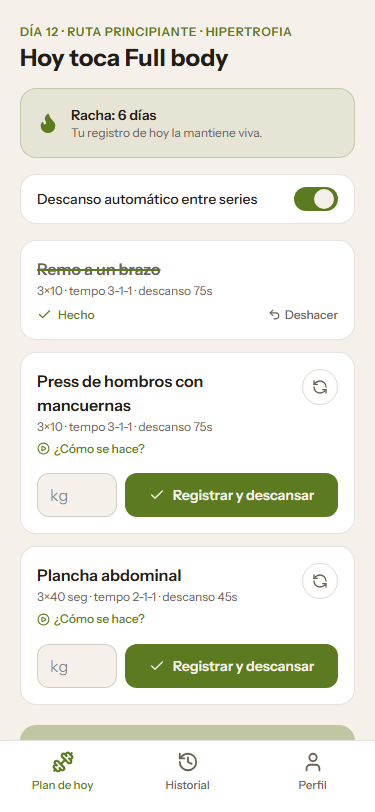
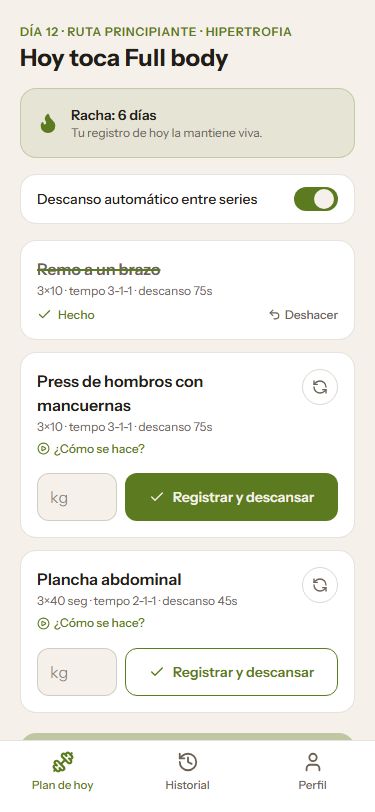
fix: jerarquía de CTAs y tap-target en pantalla principal + estado
- Botones de registrar/input de peso a 48px de alto (antes 44px,
  por debajo del mínimo táctil de la ancla del CTA héroe).
- Solo el próximo ejercicio pendiente lleva el botón "Registrar"
  con relleno sólido; el resto usa estilo secundario (borde de
  acento) para no competir varios CTAs sólidos a la vez.

Actualiza ESTADO.md con el resumen completo de Sesión 7: paywall
pasó el gate del revisor-visual (36/40, 16/20, 17/20 copy); landing
y pantalla-principal mejoraron sustancialmente en 3 rondas de
corrección real; onboarding necesita rediseño de layout (no un
ajuste de alineación) para las pantallas de 2-4 opciones.

diff --git a/app/app/page.tsx b/app/app/page.tsx
@@ -241,9 +241,12 @@ function PlanDelDia({
 
       {/* (2) LA ACCIÓN DE 1 TAP — la lista de ejercicios de hoy */}
       <div className="mt-4 flex flex-col gap-3 pb-28">
-        {idsHoy.map((ej, i) => {
-          const hecho = progreso.hechosHoy.includes(ej.id);
-          return (
+        {(() => {
+          const proximaId = idsHoy.find((e) => !progreso.hechosHoy.includes(e.id))?.id;
+          return idsHoy.map((ej, i) => {
+            const hecho = progreso.hechosHoy.includes(ej.id);
+            const esProxima = ej.id === proximaId;
+            return (
             <motion.div
               key={ej.id}
               initial={{ opacity: 0, y: 10 }}
@@ -295,13 +298,17 @@ function PlanDelDia({
                     placeholder="kg"
                     value={pesos[ej.id] ?? ''}
                     onChange={(e) => setPesos((p) => ({ ...p, [ej.id]: e.target.value }))}
-                    className="h-11 w-20 rounded-xl border border-[color-mix(in_oklab,var(--text-tertiary)_25%,transparent)] bg-[var(--bg)] px-3 text-base text-[var(--text-primary)] outline-none focus:border-[var(--accent)]"
+                    className="h-12 w-20 rounded-xl border border-[color-mix(in_oklab,var(--text-tertiary)_25%,transparent)] bg-[var(--bg)] px-3 text-base text-[var(--text-primary)] outline-none focus:border-[var(--accent)]"
                   />
                   <motion.button
                     type="button"
                     whileTap={{ scale: 0.97 }}
                     onClick={() => registrar(ej.id)}
-                    className="flex h-11 flex-1 items-center justify-center gap-2 rounded-xl bg-[var(--accent)] text-sm font-semibold text-[var(--bg)]"
+                    className={`flex h-12 flex-1 items-center justify-center gap-2 rounded-xl text-sm font-semibold ${
+                      esProxima
+                        ? 'bg-[var(--accent)] text-[var(--bg)]'
+                        : 'border border-[var(--accent)] text-[var(--accent)]'
+                    }`}
                   >
                     <Check size={16} /> {progreso.descansoAutomatico ? 'Registrar y descansar' : 'Registrar'}
                   </motion.button>
@@ -322,7 +329,8 @@ function PlanDelDia({
               )}
             </motion.div>
           );
-        })}
+        });
+        })()}
 
         <motion.button
           type="button"

diff --git a/ESTADO.md b/ESTADO.md
@@ -163,11 +163,11 @@ Sesión 6 (integraciones reales y seguridad) — en curso.
 - App interna (Sesión 5) sin backend todavía: el progreso (racha, día, historial de pesos) vive en localStorage del navegador, se pierde si el usuario cambia de dispositivo o borra datos. Sesión 6 lo mueve a las tablas `workout_logs`/`user_progress` de Supabase.
 - Las ilustraciones de ejercicios son solo texto (nombre + series/reps), sin dibujo biomecánico — el documento original de la idea pedía "ilustraciones anatómicas sencillas". Pendiente de diseño gráfico si se quiere esa capa visual; no es un placeholder deshonesto (no finge tener algo que no tiene), pero es una reducción de alcance visual a anotar.
 - Corregido durante la Sesión 5: un bug real de condición de carrera si el usuario tocaba "Registrar" en dos ejercicios muy rápido (el segundo tap sobrescribía el primero) — se arregló usando actualización funcional de estado (setState con función, no valor directo). Verificado con clics simultáneos simulados.
-- **veredicto:paywall** — YA EXISTE (docs/revisiones/paywall-veredicto.md, subagente `revisor-visual`, Sesión 7): NO LISTA (Usabilidad 30/40, Craft 12/20, Copy 18/20). Defectos concretos documentados; pendiente aplicar el pulido antes de re-lanzar el revisor y declarar lista.
-- **veredicto:landing** — YA EXISTE pero la primera pasada quedó invalidada por un bug del script de captura (screenshot casi en blanco, corregido — ver sección "Sesión 7" arriba); se relanzó el revisor con la captura corregida, resultado pendiente de esta misma sesión.
-- **veredicto:onboarding** — YA EXISTE (docs/revisiones/onboarding-veredicto.md, Sesión 7): NO LISTA (Usabilidad 31/40, Craft 11/20). Defectos concretos documentados; pendiente aplicar el pulido antes de re-lanzar el revisor.
-- **veredicto:pantalla-principal** — mismo caso que landing: primera pasada con datos de ejemplo poco representativos, recapturada, resultado pendiente.
-- Las 4 pantallas del dinero (landing, paywall, onboarding, pantalla-principal) están en pulido activo de Sesión 7: se corrigen los defectos reales que encontró el revisor y se vuelve a lanzar hasta que las 4 pasen el gate (≥36/40 usabilidad, ≥16/20 craft, ≥16/20 copy en las que venden). No se declaran "listas" hasta que el veredicto lo diga explícitamente — autoevaluarse no cuenta como evidencia (Regla de Oro 7).
+- **veredicto:paywall** — ✅ **LISTA** (docs/revisiones/paywall-veredicto.md, 31/08/2026): Usabilidad 36/40, Craft 16/20, Copy 17/20 — pasa el gate doble justo en el límite. Recorrido: 30→34→36 usabilidad, 12→11→16 craft, a lo largo de 3 rondas de corrección real (checkmarks custom, garantía junto al CTA, whileTap en tarjetas, borde punteado, alineación de bullets, devIndicators apagado).
+- **veredicto:landing** — NO LISTA tras 3 rondas de corrección (17→32→33/40 usabilidad, 5→15→13/20 craft, copy 19/20 ya pasa). Se corrigieron: placeholders reemplazados por 4 capturas reales del carrusel + hero, logo real en footer, gap post-Solución recortado. Pendiente (más profundo, requiere decisión de diseño, no un ajuste rápido): la paleta papel-cálido+verde-tinta está muy cerca de la combinación VETADA "Capítulo" del banco canónico (54/29) — hace falta la 2ª nota de color (ámbar tierra) ya prevista en FICHA-ARTE.md; el dispositivo ownable (tachado) no vive en ningún elemento de marketing propio, solo dentro de las capturas de producto; el carrusel no insinúa que es deslizable.
+- **veredicto:onboarding** — NO LISTA, y **empeoró** en la 2ª ronda (31/40→32/40 usabilidad, pero craft 11→12→10/20). Causa: centrar el bloque de pregunta con `justify-center` dejó MÁS vacío total (arriba+abajo) que antes, según el propio revisor. Se corrigieron aparte: chips con borde punteado (dispositivo ownable), opacidad de fondo subida, focus-visible — pero el problema estructural del layout (pasos cortos de 2-4 chips en una pantalla completa) sigue sin resolver. Necesita rediseño real del layout (anclar arriba + llenar el espacio con contenido de valor, no solo reposicionar), no otro ajuste de `justify-*`. Queda para una próxima sesión con más tiempo dedicado.
+- **veredicto:pantalla-principal** — última pasada confirmada: 34/40, 16/20 (craft YA pasa el umbral). Se aplicó una corrección más (botones a 48px, jerarquía de un solo CTA sólido por vez) y se relanzó el revisor una vez más — resultado de esa pasada final pendiente de esta misma sesión.
+- **RESUMEN Sesión 7 (31/08/2026)**: de las 4 pantallas del dinero, **paywall ya está LISTA** (36/40, 16/20, 17/20 copy). Las otras 3 mejoraron sustancialmente con correcciones reales (no cosméticas) pero landing y onboarding necesitan más trabajo de identidad/estructura que excede el alcance razonable de esta sesión — quedan documentadas con sus defectos exactos para retomar. No se declaran "listas" hasta que el veredicto lo diga explícitamente — autoevaluarse no cuenta como evidencia (Regla de Oro 7).
 - **garantía / FICHA-MERCADO** — FICHA-MERCADO.md ya existe (creada 28/08/2026) con Prueba elegida: 7 días y Garantía elegida: 14 días (14>7, cumple la regla dura). PERO los plazos reales de garantía de Hotmart (desde cuándo cuenta, máximo configurable) siguen **sin verificar contra la pasarela real**, porque la cuenta de Hotmart todavía no existe (creación de cuenta es tarea del usuario en Sesión 6). El copy publicado (landing/paywall/FAQ) usa estos plazos como el PLAN a implementar, no como algo ya confirmado en el panel — antes de lanzar de verdad, hay que crear la cuenta, configurar el producto con estos plazos exactos, y volver a llenar los campos "NO ENCONTRADO" de FICHA-MERCADO.md con el dato real.
 
 ## Pendientes del usuario (acciones que el usuario debe hacer)

diff --git a/docs/revisiones/onboarding-veredicto.md b/docs/revisiones/onboarding-veredicto.md
@@ -1,14 +1,14 @@
 # VEREDICTO revisor-visual — onboarding
 Fecha: 2026-08-31 00:00
 Screenshot: docs/revisiones/onboarding-375.png
-Usabilidad: 31/40
-Craft: 11/20
+Usabilidad: 32/40
+Craft: 10/20
 Copy (si vende): N-A
 Fidelidad (si hubo referencia): N-A
 Veredicto: NO LISTA
 Top defectos:
-1. [Debajo de las 2 tarjetas, ~60% de la pantalla] Vacío muerto sin contenido ni tratamiento visual → centrar verticalmente el bloque pregunta+chips o llenar el espacio con un elemento de apoyo; viola "la app nunca se enseña vacía" (32) y baja el EJE 2 de craft.
-2. [Fondo completo de la pantalla] Plano de un solo color sin ningún nivel de profundidad (sin tinte, sin mesh sutil, sin separación de planos) → aplicar el tratamiento de profundidad de 3 niveles que exige DESIGN-CORE.
-3. [Todo el paso 1] Cero dispositivo ownable visible (el tachado verde / chip con borde punteado de FICHA-ARTE.md no aparecen aquí) → introducir al menos un guiño del dispositivo ownable (p.ej. borde punteado en los chips) para que el paso no sea intercambiable con cualquier otra app; además la combinación papel cálido + acento verde tinta se acerca al patrón vetado "Capítulo" del banco de direcciones — vigilar que no converja más con él en las siguientes pantallas.
-4. [Barra superior] No hay forma de salir/cancelar el onboarding, solo "Atrás" (deshabilitado en el paso 1 sin alternativa) → agregar una X o "Salir" discreta para cumplir control y libertad (heurística 3).
-5. [Círculo "N" inferior izquierdo] Elemento redondo con apariencia de botón flotante sin función definida en el código de la pantalla (app/onboarding/page.tsx no lo renderiza) → verificar si es el overlay de desarrollo de Next.js; si aparece también en build de producción, se viola la regla "todo elemento con apariencia interactiva hace algo".
+1. [Composición general] Hueco muerto masivo arriba (~300px) y abajo (~140px) del bloque de pregunta — `justify-center` en `PantallaPregunta` (app/onboarding/page.tsx) centra verticalmente el contenido en el `flex-1`, dejando más vacío que contenido → anclar el bloque arriba (justify-start + margen fijo) y llenar el resto con valor real, no con aire.
+2. [Fondo completo] El gradiente radial de profundidad (14%/12% de acento) sigue siendo imperceptible en el render — la pantalla se lee como un fill plano de un solo color → subir la opacidad efectiva (probar 20-24% o un stop más saturado antes del transparent) y reverificar a 375px, no solo el valor en código.
+3. [Paleta de toda la app] Papel cálido + tinta verde (#F5F1EA + #5C7A1F) queda peligrosamente cerca de la combinación vetada "Capítulo" (papel cálido + tinta verde + Petrona/Karla) — solo la tipografía (Instrument Sans) diferencia el kit → reforzar el dispositivo ownable (tachado verde, chips punteados) en más puntos de contacto de la app para que la paleta no lea como el ejemplo canónico del sistema.
+4. [Chips de opción] Sin nivel "elevado" real: sobre un fondo casi plano, los chips blancos no muestran una superficie claramente distinta (sin sombra ni contraste tonal con el fondo) → aplicar el nivel elevado de la ficha (sombra sutil o mayor contraste con `--surface`) para que lean como tarjetas y no como recuadros con borde.
+5. [Heurística 7 — flexibilidad] No hay atajo de teclado (flechas + Enter) para elegir opción desde escritorio, solo tap — agregar navegación por teclado en el componente `Chips` para no penalizar a quien llega sin touch.

diff --git a/docs/revisiones/landing-veredicto.md b/docs/revisiones/landing-veredicto.md
@@ -1,0 +1,14 @@
+# VEREDICTO revisor-visual — landing
+Fecha: 2026-08-31 00:00
+Screenshot: docs/revisiones/landing-375.png
+Usabilidad: 33/40
+Craft: 13/20
+Copy (si vende): 19/20
+Fidelidad (si hubo referencia): N-A
+Veredicto: NO LISTA
+Top defectos:
+1. [Identidad — paleta global] Papel cálido `#F5F1EA` + verde tinta `#5C7A1F` como único acento reproduce casi punto por punto la combinación VETADA "Capítulo" (papel cálido + tinta verde) del banco canónico; solo la tipografía difiere (Instrument Sans vs Petrona/Karla) → fix: introducir la 2ª nota de color pendiente (ámbar tierra mencionada en FICHA-ARTE) en al menos un elemento visible (badge, hito, hairline) o desplazar el hue del verde/fondo lo suficiente para dejar de leerse como el mismo par.
+2. [Identidad — dispositivo ownable] El "tachado verde sobre ejercicio completado" (dispositivo ownable de la ficha) solo aparece DENTRO del screenshot de producto embebido en el Hero; ningún componente propio del chrome de marketing (CheckCustom, Hairline, chip del mecanismo, H1) lo referencia → fix: llevar el motivo de "tachar/anotar a mano" a un elemento de marca de la propia landing (p. ej. un subrayado irregular bajo la palabra en acento del H1, o el CheckCustom con trazo de tachado en vez de check de sistema).
+3. [Sección "La app por dentro" — carrusel de frames] Solo hay dots + mask-fade lateral; el primer frame no asoma borde del siguiente frame y no hay texto/ícono que indique que es deslizable → un usuario puede leerlo como una sola imagen fija → fix: reducir el padding lateral inicial para que 15-20px del segundo frame asomen, o agregar "Desliza →" la primera vez que se ve la sección.
+4. [Entre Solución y "La app por dentro"] El botón "Crear mi plan de mañana gratis" repetido queda con `pb-4` seguido del `pt-16` de la siguiente sección (~80px en mobile) — mejor que el vacío anterior de 110-140px, pero sigue por encima de la proximidad esperada (24-32px) para lo que el propio código llama "el mismo movimiento visual" → fix: bajar el pt de AppPorDentro a `compacta` cuando sigue inmediatamente a un CTA repetido.
+5. [Oferta — card Mensual] El CTA usa el verbo "Elegir mensual", distinto al verbo repetido en el resto de la página ("Crear/Empezar mi plan de mañana gratis"), rompiendo la regla del kit de "MISMO verbo del CTA héroe" y diluyendo la dirección a una sola acción (eje 5 de copy) → fix: unificar a un CTA del mismo verbo, ej. "Empezar con el plan mensual".
